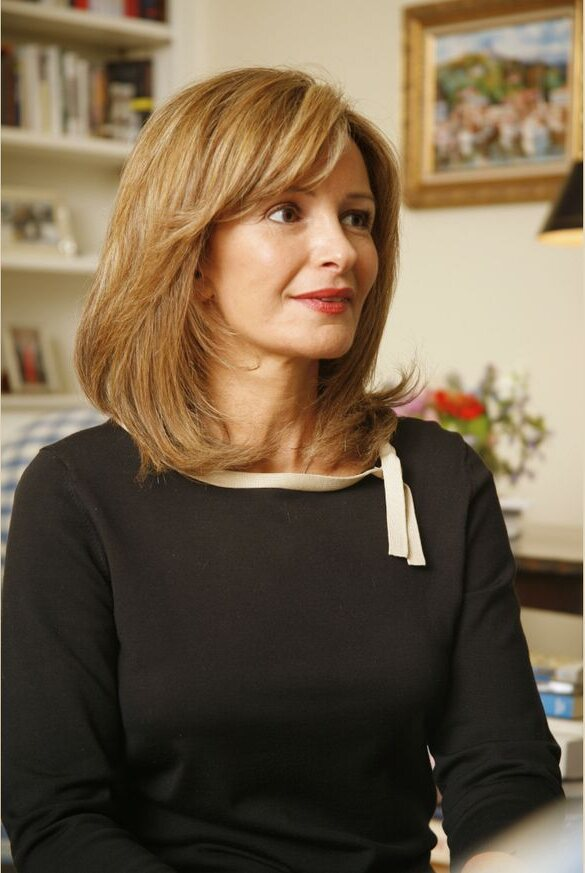
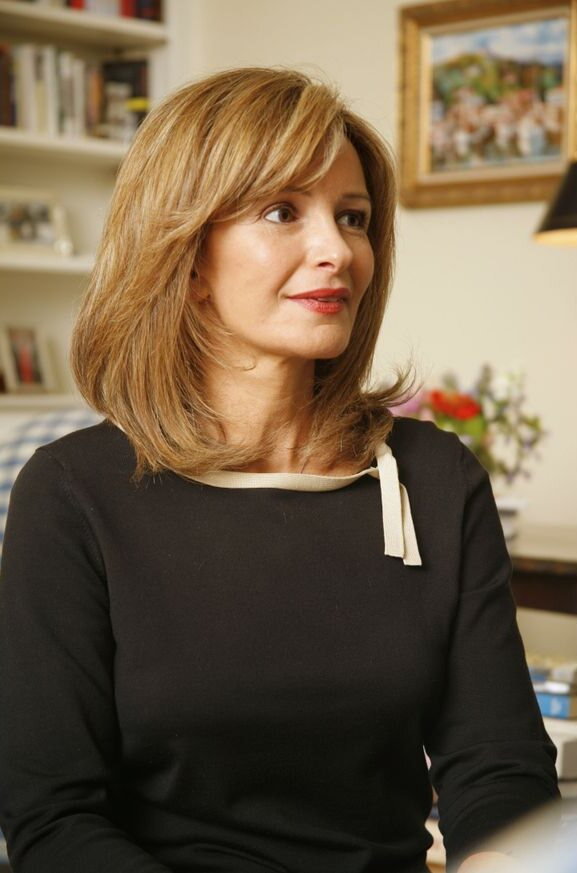
Portrait Debra Finerman : liseré beige résiduel retiré sur les bords
Claude-Session: https://claude.ai/code/session_01MNdvdNrUp6L3XHMz5Kvpag

diff --git a/debra-finerman.html b/debra-finerman.html
@@ -7,4 +7,4 @@
 <script type="application/ld+json">{"@context": "https://schema.org", "@type": "Person", "name": "Debra Finerman", "jobTitle": "Directrice du département international", "nationality": "Américaine", "alumniOf": [{"@type": "CollegeOrUniversity", "name": "UCLA"}, {"@type": "EducationalOrganization", "name": "Christie’s Education"}], "worksFor": {"@id": "{{SITE_URL}}/#organisation"}, "image": "{{SITE_URL}}/assets/debra-finerman.jpg", "url": "{{SITE_URL}}/debra-finerman.html"}</script>
 </head><body><div class="preloader"><div class="pre-inner"><div class="pre-mark">Les Éditions<br>du Mécène</div><div class="pre-sub">Maison indépendante · depuis 1987</div><div class="pre-line"><i></i></div></div></div><div class="page-wipe"></div><div class="cursor"></div><div class="noise"></div>
 <header class="topbar"><nav class="nav"><a class="brand" href="index.html"><span class="brand-name">Les Éditions<br>du Mécène</span><i class="brand-rule"></i><span class="brand-meta">Maison indépendante<br>Depuis 1987</span></a><button class="menu-trigger" aria-label="Ouvrir le menu">Menu <i></i></button></nav></header>
-<div class="menu-overlay"><div class="menu-head"><a class="brand" href="index.html"><span class="brand-name">Les Éditions<br>du Mécène</span></a><button class="menu-close">Fermer ×</button></div><div class="menu-body"><div class="menu-links"><a href="maison.html"><span>01</span>La Maison</a><a href="entreprises.html"><span>02</span>Éditions d’entreprise</a><a href="catalogue.html"><span>03</span>Catalogue</a><a href="patrice-de-moncan.html"><span>04</span>Patrice de Moncan</a><a href="debra-finerman.html"><span>05</span>Debra Finerman</a><a href="contact.html"><span>06</span>Votre projet</a><a href="international.html" hreflang="en"><span>07</span>International</a></div><aside class="menu-side"><div><small>À paraître · 2026</small><div class="edition">Une Histoire<br>Amoureuse du Vin</div><div class="menu-cover"><img loading="lazy" decoding="async" width="700" height="941" src="assets/vin.jpg" alt="Une Histoire Amoureuse du Vin"></div></div><small>1 rue du Docteur Thoral · 89390 Ravières<br>France · sur rendez-vous</small></aside></div></div><main><section class="pagehero"><div class="folio">05 · Département international</div><div class="wrap"><div class="kicker">Science politique · UCLA · Master of Art · Christie’s</div><h1>Debra <em>Finerman.</em></h1><p class="intro">Directrice du département international des Éditions du Mécène, elle accompagne les entreprises et les institutions hors de France, dans leur langue.</p></div></section><section class="chapter paper"><div class="wrap bio-grid"><div class="bio-photo reveal"><img src="assets/debra-finerman.jpg" width="585" height="873" decoding="async" alt="Portrait de Debra Finerman"></div><div class="bio-copy reveal delay"><div class="eyebrow">Directrice du département international</div><p class="biglead">Américaine, diplômée de science politique à UCLA et Master of Art de Christie’s, Debra Finerman dirige le département international des Éditions du Mécène.</p><p>Elle est l’interlocutrice des entreprises et des institutions qui souhaitent créer leur livre hors de France : un accompagnement dans leur langue, où qu’elles soient dans le monde, de la conception de l’ouvrage à sa fabrication et à sa diffusion.</p><p>Avec elle, les trois façons de publier proposées par la maison — votre propre livre, le mécénat de création ou la personnalisation d’un ouvrage du catalogue — sont ouvertes aux clients internationaux.</p><div class="works-list"><div class="work-row"><span class="year">Formation</span><b>Science politique</b><small>UCLA</small></div><div class="work-row"><span class="year">Formation</span><b>Master of Art</b><small>Christie’s</small></div><div class="work-row"><span class="year">Fonction</span><b>Département international</b><small>Les Éditions du Mécène</small></div></div><p style="margin-top:34px"><a class="button" href="international.html" hreflang="en">International · English</a></p></div></div></section><section class="chapter"><div class="wrap"><div class="chapter-head"><h2>Une direction à <em>deux voix.</em></h2><p class="copy">La conception des ouvrages et leur rayonnement international sont portés par deux interlocuteurs distincts.</p></div><div class="client-list two"><div class="client"><span class="type">Président · direction artistique &amp; éditoriale</span><h3>Patrice Cochy de Moncan</h3><p>Doctorat d’économie, licence d’histoire. Dirige la conception de chaque ouvrage, du choix éditorial à la maquette.</p><a class="button" href="patrice-de-moncan.html">Découvrir son parcours</a></div><div class="client"><span class="type">Directrice du département international</span><h3>Debra Finerman</h3><p>Américaine, diplômée de science politique à UCLA, Master of Art de Christie’s. Pilote les projets et les clients hors de France.</p></div></div></div></section><section class="chapter dark"><div class="wrap"><div class="chapter-head"><h2 lang="en">Your book, in <em>your language.</em></h2><p class="copy"><span lang="en">Since 1987, Les Éditions du Mécène has created more than 250 books for leading French and international companies and prestigious cultural institutions.</span></p><a class="button" href="contact.html">Présenter votre projet</a></div></div></section></main><footer class="footer"><div class="wrap"><div class="footer-grid"><div><div class="footer-title">Donner à l’histoire une forme qui demeure.</div></div><div><h4>Maison</h4><a href="maison.html">La Maison</a><a href="patrice-de-moncan.html">Patrice de Moncan</a><a href="debra-finerman.html">Debra Finerman</a><a href="catalogue.html">Catalogue</a></div><div><h4>Entreprises</h4><a href="entreprises.html">Livres d’entreprise</a><a href="contact.html">Présenter un projet</a><a href="ouvrage-haussmann.html">Ouvrage signature</a><a href="international.html" hreflang="en">International · English</a></div><div><h4>Contact</h4><a href="tel:+33681277860">06 81 27 78 60</a><a href="tel:+33386553059">03 86 55 30 59</a><a href="{{SITE_URL}}/" target="_blank">Site officiel ↗</a></div></div><div class="footer-bottom"><span>Les Éditions du Mécène · France · 1987—2026</span><span class="footer-legal"><a href="mentions-legales.html">Mentions légales</a> · <a href="politique-confidentialite.html">Politique de confidentialité</a></span></div></div></footer><script src="app.js"></script></body></html>
+<div class="menu-overlay"><div class="menu-head"><a class="brand" href="index.html"><span class="brand-name">Les Éditions<br>du Mécène</span></a><button class="menu-close">Fermer ×</button></div><div class="menu-body"><div class="menu-links"><a href="maison.html"><span>01</span>La Maison</a><a href="entreprises.html"><span>02</span>Éditions d’entreprise</a><a href="catalogue.html"><span>03</span>Catalogue</a><a href="patrice-de-moncan.html"><span>04</span>Patrice de Moncan</a><a href="debra-finerman.html"><span>05</span>Debra Finerman</a><a href="contact.html"><span>06</span>Votre projet</a><a href="international.html" hreflang="en"><span>07</span>International</a></div><aside class="menu-side"><div><small>À paraître · 2026</small><div class="edition">Une Histoire<br>Amoureuse du Vin</div><div class="menu-cover"><img loading="lazy" decoding="async" width="700" height="941" src="assets/vin.jpg" alt="Une Histoire Amoureuse du Vin"></div></div><small>1 rue du Docteur Thoral · 89390 Ravières<br>France · sur rendez-vous</small></aside></div></div><main><section class="pagehero"><div class="folio">05 · Département international</div><div class="wrap"><div class="kicker">Science politique · UCLA · Master of Art · Christie’s</div><h1>Debra <em>Finerman.</em></h1><p class="intro">Directrice du département international des Éditions du Mécène, elle accompagne les entreprises et les institutions hors de France, dans leur langue.</p></div></section><section class="chapter paper"><div class="wrap bio-grid"><div class="bio-photo reveal"><img src="assets/debra-finerman.jpg" width="577" height="873" decoding="async" alt="Portrait de Debra Finerman"></div><div class="bio-copy reveal delay"><div class="eyebrow">Directrice du département international</div><p class="biglead">Américaine, diplômée de science politique à UCLA et Master of Art de Christie’s, Debra Finerman dirige le département international des Éditions du Mécène.</p><p>Elle est l’interlocutrice des entreprises et des institutions qui souhaitent créer leur livre hors de France : un accompagnement dans leur langue, où qu’elles soient dans le monde, de la conception de l’ouvrage à sa fabrication et à sa diffusion.</p><p>Avec elle, les trois façons de publier proposées par la maison — votre propre livre, le mécénat de création ou la personnalisation d’un ouvrage du catalogue — sont ouvertes aux clients internationaux.</p><div class="works-list"><div class="work-row"><span class="year">Formation</span><b>Science politique</b><small>UCLA</small></div><div class="work-row"><span class="year">Formation</span><b>Master of Art</b><small>Christie’s</small></div><div class="work-row"><span class="year">Fonction</span><b>Département international</b><small>Les Éditions du Mécène</small></div></div><p style="margin-top:34px"><a class="button" href="international.html" hreflang="en">International · English</a></p></div></div></section><section class="chapter"><div class="wrap"><div class="chapter-head"><h2>Une direction à <em>deux voix.</em></h2><p class="copy">La conception des ouvrages et leur rayonnement international sont portés par deux interlocuteurs distincts.</p></div><div class="client-list two"><div class="client"><span class="type">Président · direction artistique &amp; éditoriale</span><h3>Patrice Cochy de Moncan</h3><p>Doctorat d’économie, licence d’histoire. Dirige la conception de chaque ouvrage, du choix éditorial à la maquette.</p><a class="button" href="patrice-de-moncan.html">Découvrir son parcours</a></div><div class="client"><span class="type">Directrice du département international</span><h3>Debra Finerman</h3><p>Américaine, diplômée de science politique à UCLA, Master of Art de Christie’s. Pilote les projets et les clients hors de France.</p></div></div></div></section><section class="chapter dark"><div class="wrap"><div class="chapter-head"><h2 lang="en">Your book, in <em>your language.</em></h2><p class="copy"><span lang="en">Since 1987, Les Éditions du Mécène has created more than 250 books for leading French and international companies and prestigious cultural institutions.</span></p><a class="button" href="contact.html">Présenter votre projet</a></div></div></section></main><footer class="footer"><div class="wrap"><div class="footer-grid"><div><div class="footer-title">Donner à l’histoire une forme qui demeure.</div></div><div><h4>Maison</h4><a href="maison.html">La Maison</a><a href="patrice-de-moncan.html">Patrice de Moncan</a><a href="debra-finerman.html">Debra Finerman</a><a href="catalogue.html">Catalogue</a></div><div><h4>Entreprises</h4><a href="entreprises.html">Livres d’entreprise</a><a href="contact.html">Présenter un projet</a><a href="ouvrage-haussmann.html">Ouvrage signature</a><a href="international.html" hreflang="en">International · English</a></div><div><h4>Contact</h4><a href="tel:+33681277860">06 81 27 78 60</a><a href="tel:+33386553059">03 86 55 30 59</a><a href="{{SITE_URL}}/" target="_blank">Site officiel ↗</a></div></div><div class="footer-bottom"><span>Les Éditions du Mécène · France · 1987—2026</span><span class="footer-legal"><a href="mentions-legales.html">Mentions légales</a> · <a href="politique-confidentialite.html">Politique de confidentialité</a></span></div></div></footer><script src="app.js"></script></body></html>
